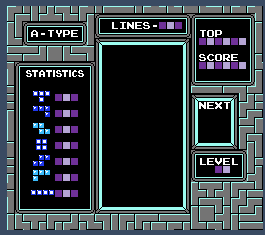
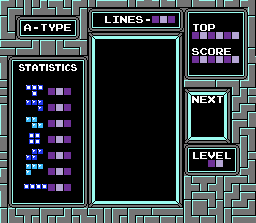
ajusto pantalla

diff --git a/Tetris/front-pc.c b/Tetris/front-pc.c
@@ -4,8 +4,6 @@
   @author   Augusto Milani
  ******************************************************************************/
 
-//TODO #include "front-pc.h"
-
 #include <stdio.h>
 #include <allegro5/allegro5.h>
 #include <allegro5/allegro_image.h>
@@ -19,11 +17,13 @@ typedef struct {
 		bool stop;						// Bandera para menú principal y pausa.
 	} argument_t;
 
+static int SCREEN_WIDTH, SCREEN_HEIGHT, TITLE_WIDTH, TITLE_HEIGHT, BACK_WIDTH, BACK_HEIGHT;
+static int dx, dy;	//Centrar imagen en pantalla.
+static float scale_image_x, scale_image_y;
+
 static void must_init (bool test, const char *description);
-static void stop(argument_t *argument);
-static void play(argument_t *argument, ALLEGRO_BITMAP *background,
-								int SCREEN_WIDTH, int SCREEN_HEIGHT,
-								int BACK_WIDTH, int BACK_HEIGHT);
+static void stop(argument_t *argument, ALLEGRO_BITMAP *title);
+static void play(argument_t *argument, ALLEGRO_BITMAP *background);
 
 /*
 typedef struct {
@@ -83,27 +83,33 @@ int main() {
 	al_register_event_source(argument.queue, al_get_display_event_source(display));
 	al_register_event_source(argument.queue, al_get_mouse_event_source());
 
-	int SCREEN_WIDTH = al_get_display_width(display);
-	int SCREEN_HEIGHT = al_get_display_height(display);
+	SCREEN_WIDTH = al_get_display_width(display);
+	SCREEN_HEIGHT = al_get_display_height(display);
 
-	int TITLE_WIDTH = al_get_bitmap_width(title);
-	int TITLE_HEIGHT = al_get_bitmap_height(title);
+	TITLE_WIDTH = al_get_bitmap_width(title);
+	TITLE_HEIGHT = al_get_bitmap_height(title);
 
-	int BACK_WIDTH = al_get_bitmap_width(title);
-	int BACK_HEIGHT = al_get_bitmap_height(title);
+	BACK_WIDTH = al_get_bitmap_width(background);
+	BACK_HEIGHT = al_get_bitmap_height(background);
 
+	float scale_x = (float)SCREEN_WIDTH / BACK_WIDTH;
+	float scale_y = (float)SCREEN_HEIGHT / BACK_HEIGHT;
 
+	if (scale_x < scale_y) {
+	    scale_image_x = scale_x;
+	    scale_image_y = scale_x;
+	} else {
+	    scale_image_y = scale_y;
+	    scale_image_x = scale_y;
+	}
+
+	dx = (SCREEN_WIDTH - BACK_WIDTH * scale_image_x) / 2;
+	dy = (SCREEN_HEIGHT - BACK_HEIGHT * scale_image_y) / 2;
 
 	al_start_timer(timer);
 
-	/* Imprimo Menú del Juego */
-	al_draw_scaled_bitmap(title, 0, 0, TITLE_WIDTH, TITLE_HEIGHT,
-									 0, 0, SCREEN_WIDTH, SCREEN_HEIGHT,
-									 0);
-	al_flip_display();
-
-	stop(&argument);
-	play(&argument, background, SCREEN_WIDTH, SCREEN_HEIGHT, BACK_WIDTH, BACK_HEIGHT);
+	stop(&argument, title);
+	play(&argument, background);
 
 	/* Finalización del Programa */
 	al_destroy_display(display);
@@ -121,7 +127,15 @@ static void must_init(bool test, const char *description) {
     exit(1);
 }
 
-void stop(argument_t *argument) {
+
+
+void stop(argument_t *argument, ALLEGRO_BITMAP *title) {
+	/* Imprimir el Menú del Juego */
+	al_clear_to_color(al_map_rgb(0, 0, 0));		// Limpio pantalla con negro.
+	al_draw_scaled_bitmap(title, 0, 0, TITLE_WIDTH, TITLE_HEIGHT,
+						  dx, dy, TITLE_WIDTH * scale_image_x, TITLE_HEIGHT * scale_image_y, 0);
+	al_flip_display();
+
 	argument->stop = true;
 	while(argument->stop) {	//Mientras esté en pausa, no empieza.
 
@@ -150,9 +164,7 @@ void stop(argument_t *argument) {
 	}
 }
 
-void play(argument_t *argument, ALLEGRO_BITMAP *background,
-								int SCREEN_WIDTH, int SCREEN_HEIGHT,
-								int BACK_WIDTH, int BACK_HEIGHT) {
+void play(argument_t *argument, ALLEGRO_BITMAP *background) {
 	while(!(argument->flag)) {
 
 		al_wait_for_event(argument->queue, &(argument->event));
@@ -207,7 +219,7 @@ void play(argument_t *argument, ALLEGRO_BITMAP *background,
 			al_clear_to_color(al_map_rgb(0, 0, 0));		// Limpio pantalla con negro.
 
 			al_draw_scaled_bitmap(background, 0, 0, BACK_WIDTH, BACK_HEIGHT,
-										 0, 0, SCREEN_WIDTH, SCREEN_HEIGHT,
+										 dx, dy, BACK_WIDTH*scale_image_x, BACK_HEIGHT*scale_image_y,
 										 0);
 			al_flip_display();
 			argument->redraw = false;
